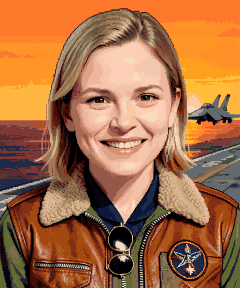
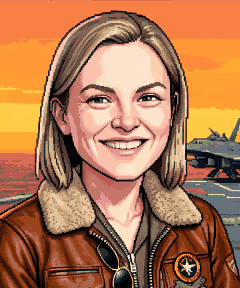
fix(pilots): pilot17 is the owner's pick from the redo

diff --git a/.mdd/docs/33-image-portraits.md b/.mdd/docs/33-image-portraits.md
@@ -74,7 +74,7 @@ portraits and avatars (docs 20 / 29, art v1 and v2) are retired.
 
 | File | Use |
 |------|-----|
-| `pilot10.png` … `pilot18.png`, new `pilot5.png` | NEW PILOT's rows 3–4 (2026-10-27, doc 08): nine more presets and a second photo of the pilot5 boy, photos the owner supplied (everyone shown agreed) — same workflow, run on the M4 (~45 s per image; its text encoder override `21.clip_name = qwen_3_4b.safetensors`), two seeds each and the owner's pick: seed 11 for pilot5, 10, 12, 18, seed 7 for 13, 14, 15. pilot11, 16 and 17 were redone "much closer to the original": a tighter full-resolution crop (face sharp, background blurred outside an ellipse, WebP) and an identity block that names every feature and says "do not idealise or beautify". Colour and mood words still steer hard — "dark-brown hair, thick moustache" gave a black-haired villain, "squinting, hollow cheeks" an angry face; naming the real shades ("medium-brown, not black") and the mood ("calm, relaxed, not frowning") fixed it. Shipped: pilot11 = second redo seed 42, pilot16 = third redo seed 7, pilot17 = first redo seed 42 — pilot17 redone once more the same day (owner: "looks very different, she has very distinctive features"): a wider crop that keeps her chin, and the style line "realistic pixel art in the style of a 1990s VGA adventure game that used digitised photographs of real actors … not a cartoon" with "keep the face exactly as it is"; long lists of facial features and "do not make her round / cute" kept producing the same generic smiling face. Shipped: that run's seed 7. Photos never in the repo; the owner deletes them from the M4's ComfyUI input |
+| `pilot10.png` … `pilot18.png`, new `pilot5.png` | NEW PILOT's rows 3–4 (2026-10-27, doc 08): nine more presets and a second photo of the pilot5 boy, photos the owner supplied (everyone shown agreed) — same workflow, run on the M4 (~45 s per image; its text encoder override `21.clip_name = qwen_3_4b.safetensors`), two seeds each and the owner's pick: seed 11 for pilot5, 10, 12, 18, seed 7 for 13, 14, 15. pilot11, 16 and 17 were redone "much closer to the original": a tighter full-resolution crop (face sharp, background blurred outside an ellipse, WebP) and an identity block that names every feature and says "do not idealise or beautify". Colour and mood words still steer hard — "dark-brown hair, thick moustache" gave a black-haired villain, "squinting, hollow cheeks" an angry face; naming the real shades ("medium-brown, not black") and the mood ("calm, relaxed, not frowning") fixed it. Shipped: pilot11 = second redo seed 42, pilot16 = third redo seed 7, pilot17 = first redo seed 42 — pilot17 redone once more the same day (owner: "looks very different, she has very distinctive features"): a wider crop that keeps her chin, and the style line "realistic pixel art in the style of a 1990s VGA adventure game that used digitised photographs of real actors … not a cartoon" with "keep the face exactly as it is", or a short list of only her most distinctive traits (very pale, almost invisible eyebrows; narrow, wide-set eyes; high forehead; long nose with a broad tip; wide jaw, long chin); long lists of facial features and "do not make her round / cute" kept producing the same generic smiling face. Owner's pick: the short-traits run, seed 11. Photos never in the repo; the owner deletes them from the M4's ComfyUI input |
 | `pilot5.png` … `pilot9.png` | NEW PILOT's second row (2026-10-27, doc 08): five more presets from photos the owner supplied — same crop / workflow / 64-colour grid as pilot4, two seeds each (7, 11), the owner's pick shipped; photos never in the repo, deleted from the ComfyUI input after the runs. Hair colour words matter: 'dark-blond' came out brown, 'strawberry-blond' copper-red, 'ash-blond' grey or near-black; 'sandy-blond' / 'medium-blond, the colour of wet sand, lighter ends' matched (pilot5 and pilot6 are those third tries). Owner's picks: seed 7 for pilot8 and pilot9, seed 11 for pilot7 |
 | `pilot1.png` … `pilot4.png` | the four preset pilots (pilot4, the grown-up, added 2026-10-26 from the owner's own selfie with the owner's consent: cropped to 5:6 locally, 'Top Gun pixel pilot portrait' on the M1 with a 'preserve the man's real face' identity block; the photo stays out of the repo and is deleted from the ComfyUI input) |
 | `admiral.png` (+ `-talk`, `-half`) | the admiral — no blink frame (dark sunglasses) |
